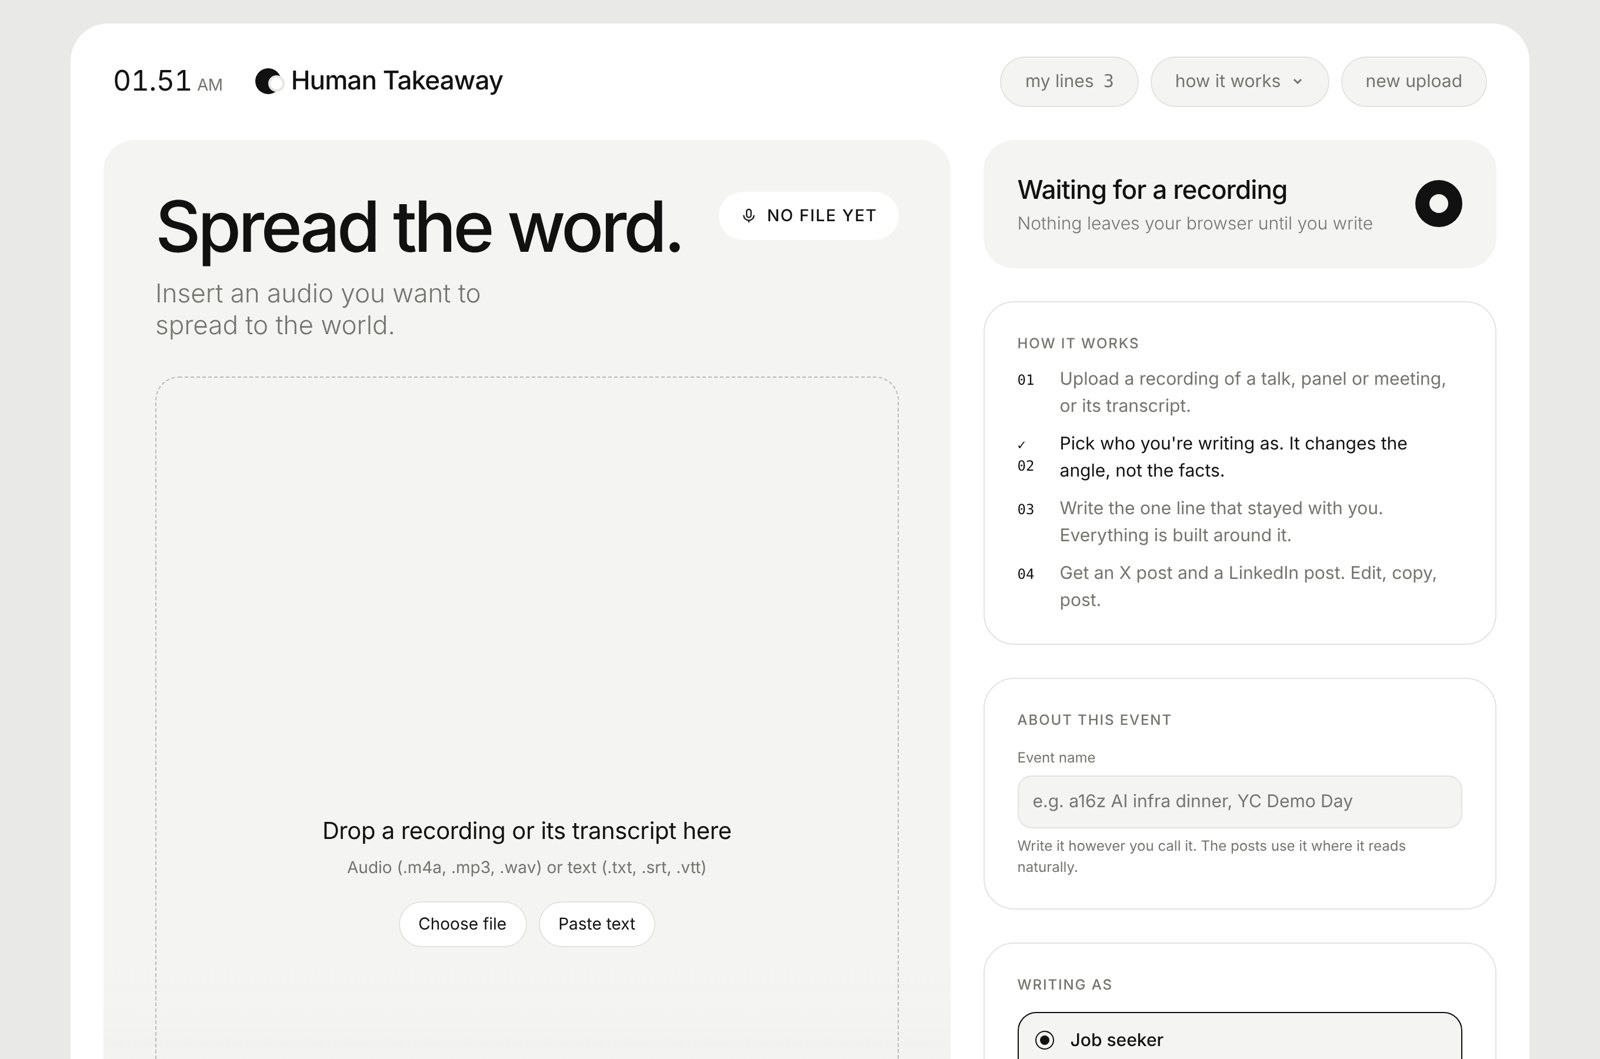
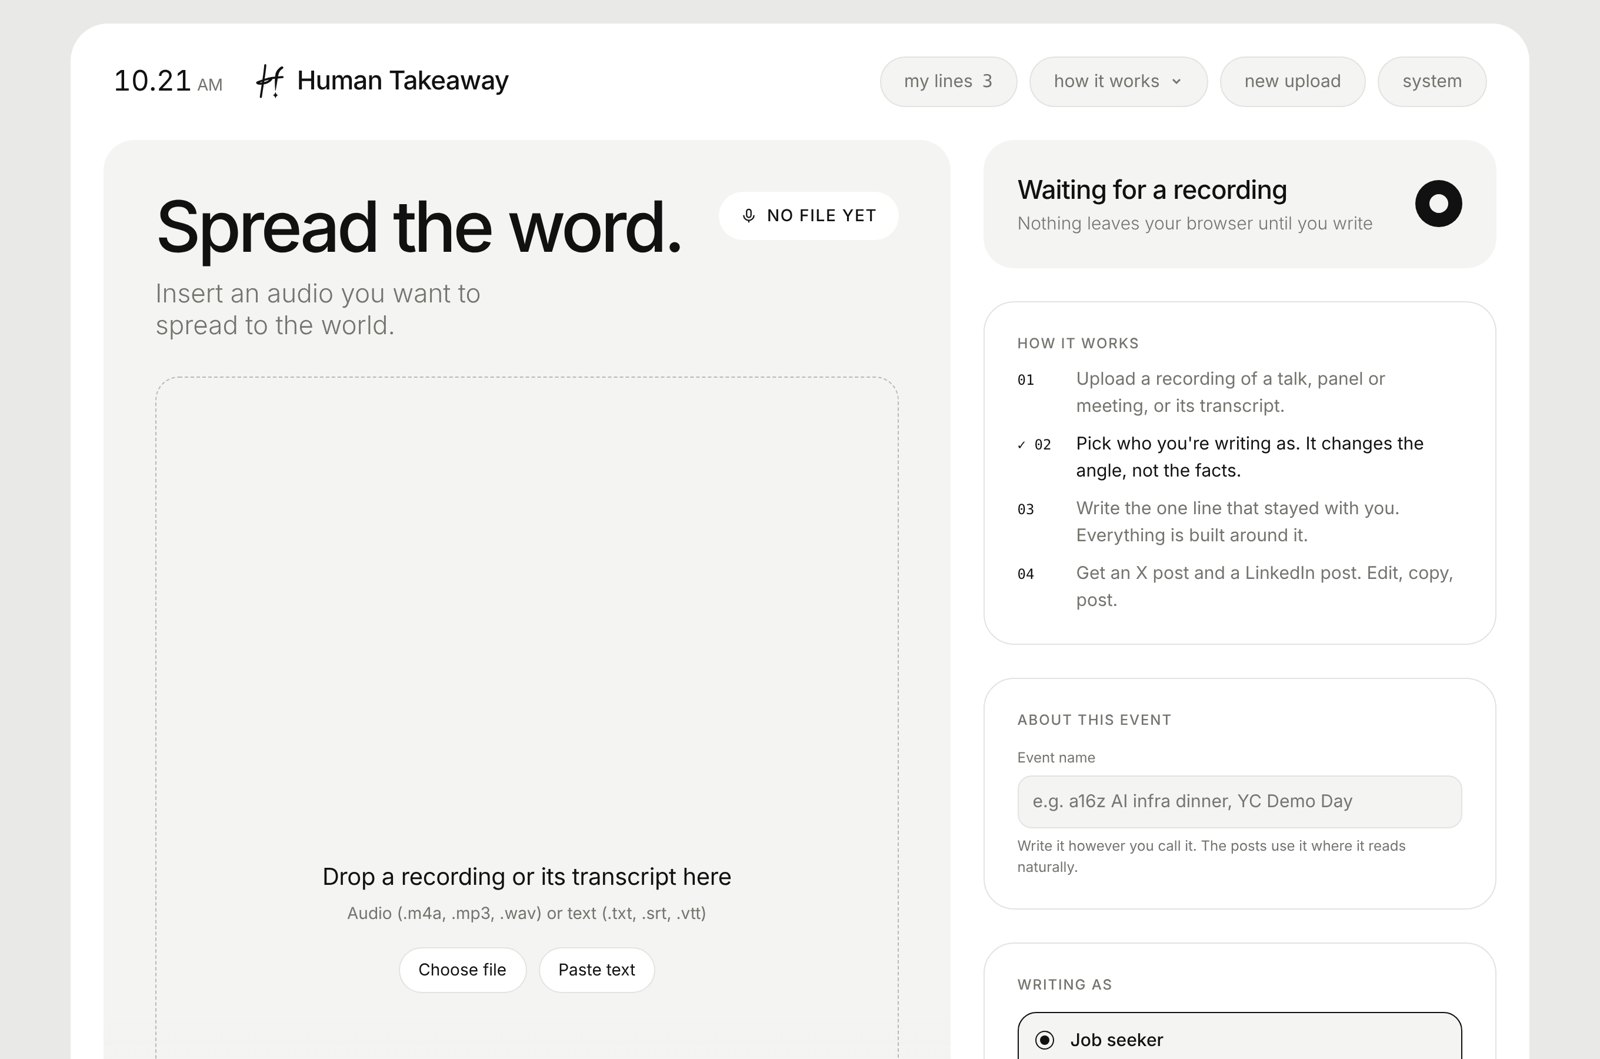
Refresh Human Takeaway with the new UI and Builder role, and lead Building now with it
Claude-Session: https://claude.ai/code/session_0111bAxhRWFbHUQUwMUbEcV4

diff --git a/index.html b/index.html
@@ -521,10 +521,14 @@ footer a:hover,.copy-inline:hover{border-color:var(--honey)}
   <section class="arch" id="now" aria-labelledby="now-h">
     <div class="arch-head">
       <div><span class="eyebrow">Archive</span><h2 id="now-h">Building now.</h2></div>
-      <p>A startup I stopped on purpose, and the side projects I keep exploring.</p>
+      <p>What I'm building now, a startup I stopped on purpose, and the side projects I keep exploring.</p>
     </div>
     <div class="grid">
-      <a class="slot card wide" href="owol.html">
+      <a class="slot card wide dim" href="human-takeaway.html">
+        <img src="photos/ht-home.jpg" alt="Human Takeaway home screen: Spread the word, with a drop zone for a recording and a how it works card" style="object-position:0% 0%">
+        <div class="ov"><span class="tag">Side project · Voice AI</span><div><h4>AI can write the post. The takeaway has to be yours.</h4><span class="m">Human Takeaway · Talk recordings into X and LinkedIn posts →</span></div></div>
+      </a>
+      <a class="slot card" href="owol.html">
         <div class="ph chatprev" aria-hidden="true">
           <div class="cp t">Hi! Can I book a keratin treatment this Saturday at 3pm?</div>
           <div class="cp a">agent translates and books</div>
@@ -548,10 +552,6 @@ footer a:hover,.copy-inline:hover{border-color:var(--honey)}
       <a class="slot card" href="saju.html">
         <img src="photos/saju-card.jpg" alt="Master Yun, a 3D saju reader in a green robe, under a starry sky" style="object-position:50% 100%">
         <div class="ov"><span class="tag">Hackathon · AWS Loft</span><div><h4>Saju lands in America when it speaks astrology, out loud.</h4><span class="m">Master Yun · Saju meets astrology, voiced by ElevenLabs →</span></div></div>
-      </a>
-      <a class="slot card dim" href="human-takeaway.html">
-        <img src="photos/ht-card.jpg" alt="Human Takeaway library: What stayed with you, with saved one-line takeaways" style="object-position:50% 0%">
-        <div class="ov"><span class="tag">Side project · Voice AI</span><div><h4>AI can write the post. The takeaway has to be yours.</h4><span class="m">Human Takeaway · Talk recordings into X and LinkedIn posts →</span></div></div>
       </a>
       <a class="slot card" href="baeai.html">
         <img src="photos/baeai-hanok.jpg" alt="BaeAI character visual: a young man in a black hoodie in front of a hanok roof" style="object-position:50% 22%">
@@ -653,11 +653,11 @@ Focus: deploying AI into real organizations and measuring that it works, especia
 - AI-first story for C-level keynotes at CES 2025, MWC, DTW Ignite, and AWS Summit Seoul (26,000+ executives)
 
 ## Building now
+- Human Takeaway (side project, 2026): upload a talk or panel recording, type the one line that stayed with you (pasting disabled), and get an X post and a LinkedIn post grounded in the transcript; two-pass LLM plan-then-write, four writing roles (job seeker, marketer, founder, builder), saved library of lines. Story: https://junelim12.github.io/human-takeaway.html
 - OWOL Archive, Founder (2025-2026): AI booking and translation agent; 20+ owner interviews; pivoted into existing messengers; halted after weighing costs against willingness to pay; began from my own photo studio work with foreign clients; v1 Portrai paired beauty-tuned interpretation AI with human interpreters and a booking platform (₩350K avg ticket, 17% take rate), but willingness to pay was too low; v2 messenger agent API was outrun by free tools like LLMs and Papago. Story: https://junelim12.github.io/owol.html
 - Kaybridge (side project, 2026): AI platform routing Bay Area startups to decision owners inside Korean enterprises; one deal done by hand, cold to preferred bidder in ~4 months. Case study: https://junelim12.github.io/kaybridge.html
 - Master Yun (hackathon, AWS Loft, 2026): voice-guided Korean saju reader that blends the Four Pillars with Western astrology; reading engine built on GitHub, app in Lovable, voice via the ElevenLabs API. Live: https://karma-key-generator.lovable.app · Story: https://junelim12.github.io/saju.html
 - BaeAI (product concept, 2026): Hinge-style dating app for North American women where every match is an AI Korean man; hidden match tiers, unlockable dates, photos and calls, relationship state machine with endings. 48-screen wireframe. Story: https://junelim12.github.io/baeai.html
-- Human Takeaway (side project, 2026): upload a talk or panel recording, type the one line that stayed with you (pasting disabled), and get an X post and a LinkedIn post grounded in the transcript; two-pass LLM plan-then-write, three writing roles, saved library of lines. Story: https://junelim12.github.io/human-takeaway.html
 
 ## Education
 - UC Berkeley Haas, MBA (expected 2028), AI for Business Certificate

diff --git a/human-takeaway.html b/human-takeaway.html
@@ -179,7 +179,7 @@ section.ch{padding-block:88px 0}
     </div>
     <div class="steps">
       <div><b>01</b><h4>Upload</h4><p>A recording of a talk, panel or meeting, or its transcript. Audio is transcribed for you.</p></div>
-      <div><b>02</b><h4>Pick a role</h4><p>Who you're writing as. It changes the angle, not the facts.</p></div>
+      <div><b>02</b><h4>Pick a role</h4><p>Job seeker, marketer, founder or builder. It changes the angle, not the facts.</p></div>
       <div><b>03</b><h4>Write your line</h4><p>The one line that stayed with you. Everything is built around it.</p></div>
       <div><b>04</b><h4>Post</h4><p>Get an X post and a LinkedIn post. Edit, copy, post.</p></div>
     </div>
@@ -188,8 +188,9 @@ section.ch{padding-block:88px 0}
         <div class="role"><b>Job seeker</b><span>Show how you think, so hiring managers notice. Never begs for a job.</span></div>
         <div class="role"><b>Marketer</b><span>Put the spotlight on the company or product behind the event, without sounding like an ad.</span></div>
         <div class="role"><b>Founder</b><span>Earn trust with a clear take, without pitching.</span></div>
+        <div class="role"><b>Builder</b><span>Turn what you heard into what you'd build or ship, written from the workbench.</span></div>
       </div>
-      <figure class="fig" style="margin:0"><img src="photos/ht-roles.jpg" alt="Writing as: Job seeker, Marketer or Founder, with an End with a suggestion toggle and a write posts button" loading="lazy"></figure>
+      <figure class="fig" style="margin:0"><img src="photos/ht-roles.jpg" alt="Writing as: Job seeker, Marketer, Founder or Builder" loading="lazy"></figure>
     </div>
   </section>
 
